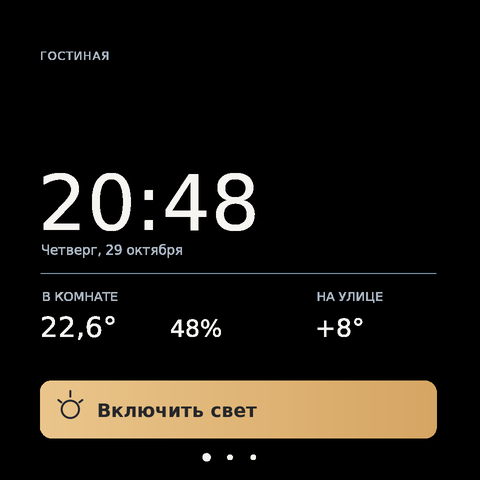
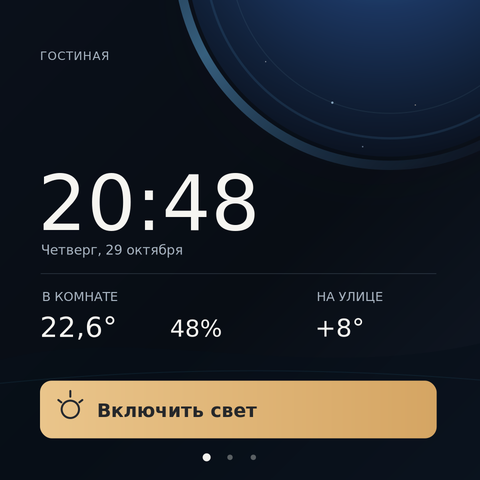
fix: compose vector ambient background with room mockup overlay

diff --git a/tools/render_assets.py b/tools/render_assets.py
@@ -23,7 +23,15 @@ def render(source: Path, output: Path, width: int, height: int, supersample: int
     if not source.is_file():
         raise FileNotFoundError(source)
     png_data = cairosvg.svg2png(url=str(source), output_width=width * supersample, output_height=height * supersample)
-    with Image.open(BytesIO(png_data)) as im:
+    with Image.open(BytesIO(png_data)) as original:
+        im = original.convert('RGBA')
+        # Keep decorative background and mock content as separate master sources.
+        # The device UI will draw labels/buttons dynamically in LVGL, not bake them into background.
+        if source.name == 'room-home.svg':
+            bg = cairosvg.svg2png(url=str(ROOT / 'assets/source/aurora-background.svg'),
+                                   output_width=width * supersample, output_height=height * supersample)
+            with Image.open(BytesIO(bg)) as background:
+                im = Image.alpha_composite(background.convert('RGBA'), im)
         im = im.convert('RGB').resize((width, height), Image.Resampling.LANCZOS)
         output.parent.mkdir(parents=True, exist_ok=True)
         im.save(output, format='PNG', optimize=True)
